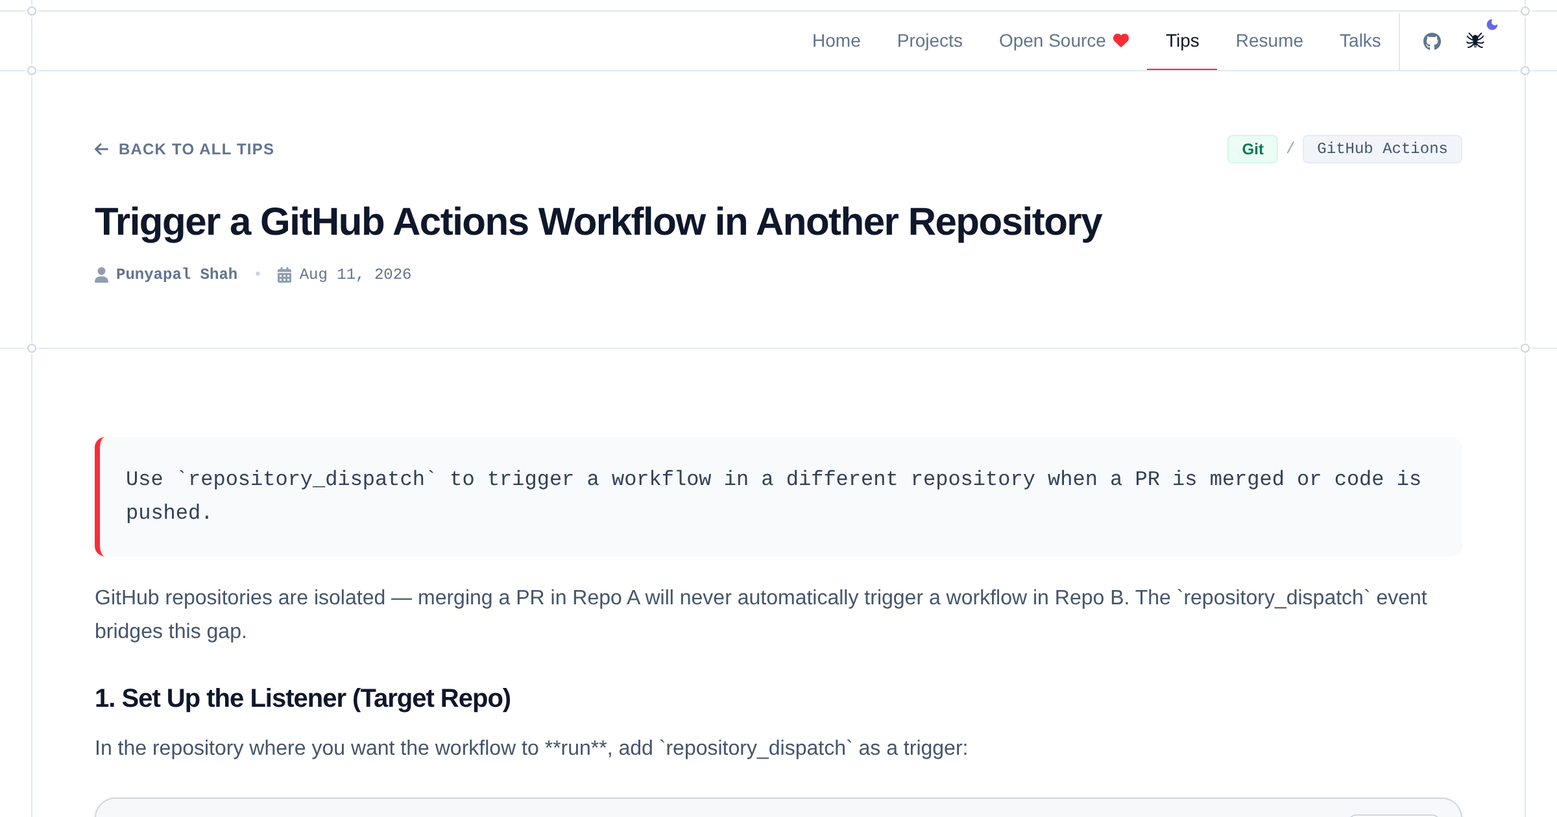
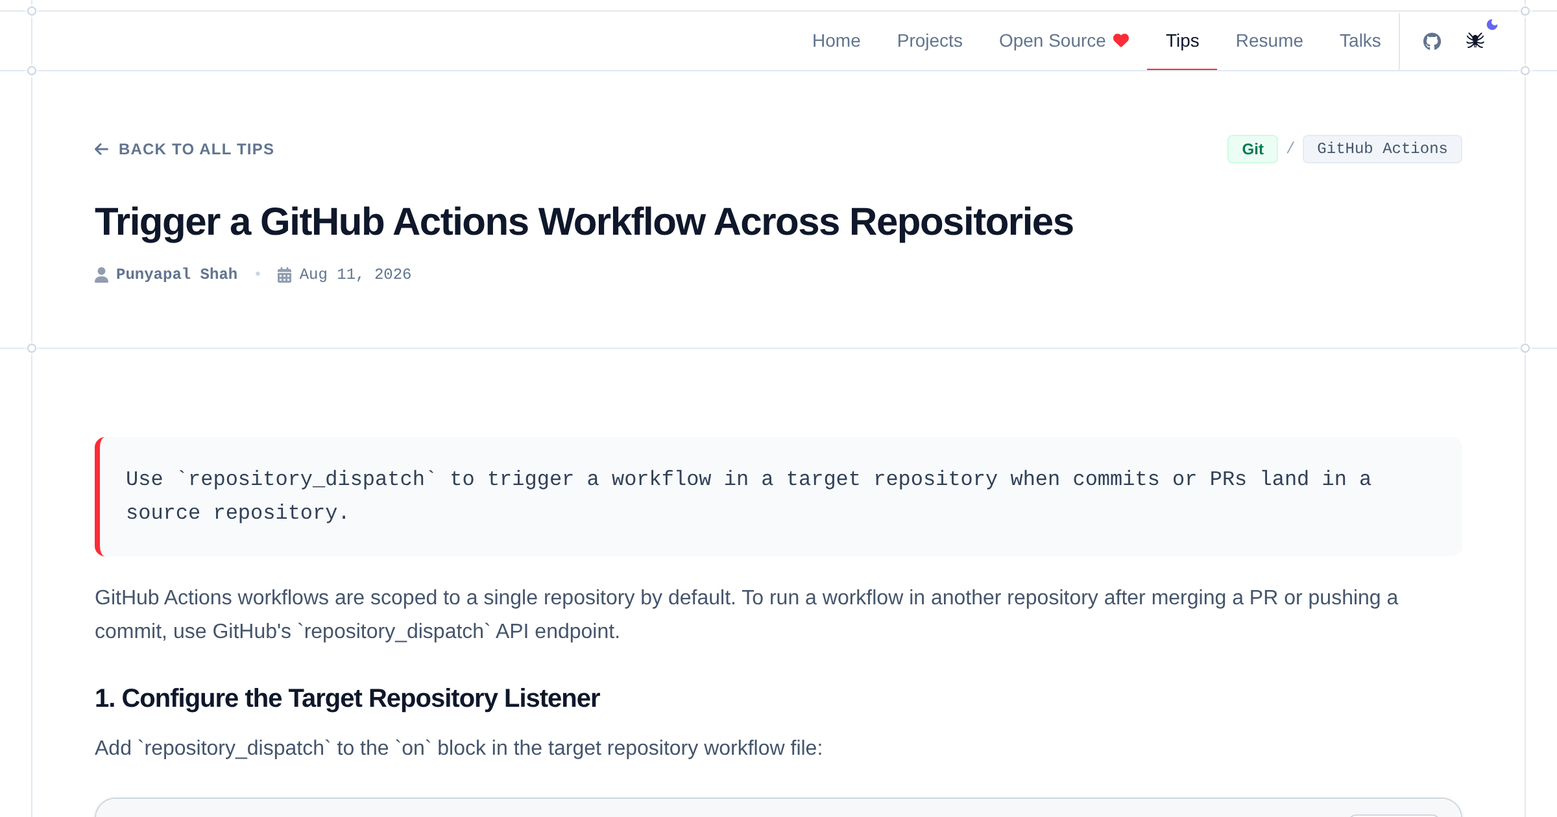
build: auto-generate site assets and update tips submodule

diff --git a/tips/github-actions-cross-repo-workflow-dispatch.html b/tips/github-actions-cross-repo-workflow-dispatch.html
@@ -4,7 +4,7 @@
 <head>
     <meta charset="UTF-8">
     <meta name="viewport" content="width=device-width, initial-scale=1.0">
-    <title>Trigger a GitHub Actions Workflow in Another Repository | Tips | Punyapal Shah</title>
+    <title>Trigger a GitHub Actions Workflow Across Repositories | Tips | Punyapal Shah</title>
 
     <!-- Browser and Performance -->
     <link rel="preconnect" href="https://fonts.googleapis.com">
@@ -16,7 +16,7 @@
     <meta http-equiv="Permissions-Policy" content="interest-cohort=()">
 
     <!-- Primary SEO Meta Tags -->
-    <meta name="description" content="Use repositorydispatch to trigger a workflow in a different repository when a PR is merged or code is pushed. GitHub repositories are isolated — merging a PR...">
+    <meta name="description" content="Use repositorydispatch to trigger a workflow in a target repository when commits or PRs land in a source repository. GitHub Actions workflows are scoped to a...">
     <meta name="author" content="Punyapal Shah">
     <link rel="canonical" href="https://mrpunyapal.dev/tips/github-actions-cross-repo-workflow-dispatch">
     <link rel="alternate" type="application/rss+xml" title="Punyapal Shah's Tips" href="https://mrpunyapal.dev/tips/feed.xml">
@@ -24,14 +24,14 @@
     <!-- Open Graph / Facebook -->
     <meta property="og:type" content="article">
     <meta property="og:url" content="https://mrpunyapal.dev/tips/github-actions-cross-repo-workflow-dispatch">
-    <meta property="og:title" content="Trigger a GitHub Actions Workflow in Another Repository | Punyapal Shah">
-    <meta property="og:description" content="Use repositorydispatch to trigger a workflow in a different repository when a PR is merged or code is pushed. GitHub repositories are isolated — merging a PR...">
+    <meta property="og:title" content="Trigger a GitHub Actions Workflow Across Repositories | Punyapal Shah">
+    <meta property="og:description" content="Use repositorydispatch to trigger a workflow in a target repository when commits or PRs land in a source repository. GitHub Actions workflows are scoped to a...">
     <meta property="og:image" content="https://mrpunyapal.dev/og/tips/github-actions-cross-repo-workflow-dispatch.png">
     <meta property="og:image:secure_url" content="https://mrpunyapal.dev/og/tips/github-actions-cross-repo-workflow-dispatch.png">
     <meta property="og:image:type" content="image/png">
     <meta property="og:image:width" content="1200">
     <meta property="og:image:height" content="630">
-    <meta property="og:image:alt" content="Trigger a GitHub Actions Workflow in Another Repository - Punyapal Shah">
+    <meta property="og:image:alt" content="Trigger a GitHub Actions Workflow Across Repositories - Punyapal Shah">
     <meta property="og:site_name" content="Punyapal Shah">
     <meta property="og:locale" content="en_US">
     <meta property="article:published_time" content="2026-08-11">
@@ -43,10 +43,10 @@
     <meta name="twitter:site" content="@MrPunyapal">
     <meta name="twitter:creator" content="@MrPunyapal">
     <meta name="twitter:url" content="https://mrpunyapal.dev/tips/github-actions-cross-repo-workflow-dispatch">
-    <meta name="twitter:title" content="Trigger a GitHub Actions Workflow in Another Repository | Punyapal Shah">
-    <meta name="twitter:description" content="Use repositorydispatch to trigger a workflow in a different repository when a PR is merged or code is pushed. GitHub repositories are isolated — merging a PR...">
+    <meta name="twitter:title" content="Trigger a GitHub Actions Workflow Across Repositories | Punyapal Shah">
+    <meta name="twitter:description" content="Use repositorydispatch to trigger a workflow in a target repository when commits or PRs land in a source repository. GitHub Actions workflows are scoped to a...">
     <meta name="twitter:image" content="https://mrpunyapal.dev/og/tips/github-actions-cross-repo-workflow-dispatch.png">
-    <meta name="twitter:image:alt" content="Trigger a GitHub Actions Workflow in Another Repository - Punyapal Shah">
+    <meta name="twitter:image:alt" content="Trigger a GitHub Actions Workflow Across Repositories - Punyapal Shah">
 
     <!-- Structured Data (JSON-LD TechArticle & Breadcrumbs) -->
     <script type="application/ld+json">
@@ -56,8 +56,8 @@
             {
                 "@type": "TechArticle",
                 "@id": "https://mrpunyapal.dev/tips/github-actions-cross-repo-workflow-dispatch#article",
-                "headline": "Trigger a GitHub Actions Workflow in Another Repository",
-                "description": "Use repositorydispatch to trigger a workflow in a different repository when a PR is merged or code is pushed. GitHub repositories are isolated — merging a PR...",
+                "headline": "Trigger a GitHub Actions Workflow Across Repositories",
+                "description": "Use repositorydispatch to trigger a workflow in a target repository when commits or PRs land in a source repository. GitHub Actions workflows are scoped to a...",
                 "datePublished": "2026-08-11",
                 "inLanguage": "en",
                 "mainEntityOfPage": "https://mrpunyapal.dev/tips/github-actions-cross-repo-workflow-dispatch",
@@ -89,7 +89,7 @@
                     {
                         "@type": "ListItem",
                         "position": 3,
-                        "name": "Trigger a GitHub Actions Workflow in Another Repository",
+                        "name": "Trigger a GitHub Actions Workflow Across Repositories",
                         "item": "https://mrpunyapal.dev/tips/github-actions-cross-repo-workflow-dispatch"
                     }
                 ]
@@ -617,7 +617,7 @@
                 <!-- Title & Meta -->
                 <div class="animate-fade-up">
                     <h1 class="text-xl sm:text-2xl md:text-3xl font-bold text-slate-900 dark:text-white tracking-tight leading-snug mb-3">
-                        Trigger a GitHub Actions Workflow in Another Repository
+                        Trigger a GitHub Actions Workflow Across Repositories
                     </h1>
 
                     <div class="flex flex-wrap items-center gap-2.5 sm:gap-3 text-xs font-mono text-slate-500 dark:text-slate-400">
@@ -642,7 +642,7 @@
 
                 <!-- Main Tip Content -->
                 <div class="tip-content max-w-none text-slate-800 dark:text-slate-200 text-sm sm:text-base">
-                    <blockquote class="p-4 sm:p-5 my-5 rounded-lg bg-slate-50 dark:bg-slate-900/60 border-l-4 border-red-500 text-slate-700 dark:text-slate-300 text-sm sm:text-base font-mono leading-relaxed">Use `repository_dispatch` to trigger a workflow in a different repository when a PR is merged or code is pushed.</blockquote><p class="text-sm sm:text-base text-slate-600 dark:text-slate-300 leading-relaxed my-3">GitHub repositories are isolated — merging a PR in Repo A will never automatically trigger a workflow in Repo B. The `repository_dispatch` event bridges this gap.</p><h3 class="text-lg sm:text-xl font-bold text-slate-900 dark:text-white mt-6 mb-3 tracking-tight">1. Set Up the Listener (Target Repo)</h3><p class="text-sm sm:text-base text-slate-600 dark:text-slate-300 leading-relaxed my-3">In the repository where you want the workflow to **run**, add `repository_dispatch` as a trigger:</p>
+                    <blockquote class="p-4 sm:p-5 my-5 rounded-lg bg-slate-50 dark:bg-slate-900/60 border-l-4 border-red-500 text-slate-700 dark:text-slate-300 text-sm sm:text-base font-mono leading-relaxed">Use `repository_dispatch` to trigger a workflow in a target repository when commits or PRs land in a source repository.</blockquote><p class="text-sm sm:text-base text-slate-600 dark:text-slate-300 leading-relaxed my-3">GitHub Actions workflows are scoped to a single repository by default. To run a workflow in another repository after merging a PR or pushing a commit, use GitHub's `repository_dispatch` API endpoint.</p><h3 class="text-lg sm:text-xl font-bold text-slate-900 dark:text-white mt-6 mb-3 tracking-tight">1. Configure the Target Repository Listener</h3><p class="text-sm sm:text-base text-slate-600 dark:text-slate-300 leading-relaxed my-3">Add `repository_dispatch` to the `on` block in the target repository workflow file:</p>
 <div class="code-block-wrapper my-6 rounded-2xl border border-[#d0d7de] dark:border-[#30363d] bg-white dark:bg-[#0d1117] text-[#24292e] dark:text-[#c9d1d9] overflow-hidden text-xs sm:text-sm font-mono shadow-sm relative group">
     <div class="flex items-center justify-between px-4 py-3 bg-[#f6f8fa] dark:bg-[#161b22] border-b border-[#d0d7de] dark:border-[#30363d] select-none">
         <div class="flex items-center gap-2">
@@ -666,7 +666,7 @@ jobs:
     runs-on: ubuntu-latest
     steps:
       - uses: actions/checkout@v4
-      - run: echo &quot;Build triggered!&quot;" aria-label="Copy code to clipboard">
+      - run: echo &quot;Build triggered&quot;" aria-label="Copy code to clipboard">
             <svg class="w-3.5 h-3.5 opacity-70" fill="none" stroke="currentColor" viewBox="0 0 24 24" aria-hidden="true">
                 <path stroke-linecap="round" stroke-linejoin="round" stroke-width="2" d="M8 16H6a2 2 0 01-2-2V6a2 2 0 012-2h8a2 2 0 012 2v2m-6 12h8a2 2 0 002-2v-8a2 2 0 00-2-2h-8a2 2 0 00-2 2v8a2 2 0 002 2z"></path>
             </svg>
@@ -689,8 +689,8 @@ jobs:
     <span class="hljs-attr">runs-on:</span> <span class="hljs-string">ubuntu-latest</span>
     <span class="hljs-attr">steps:</span>
       <span class="hljs-bullet">-</span> <span class="hljs-attr">uses:</span> <span class="hljs-string">actions/checkout@v4</span>
-      <span class="hljs-bullet">-</span> <span class="hljs-attr">run:</span> <span class="hljs-string">echo</span> <span class="hljs-string">&quot;Build triggered!&quot;</span></code></pre>
-</div><h3 class="text-lg sm:text-xl font-bold text-slate-900 dark:text-white mt-6 mb-3 tracking-tight">2. Set Up the Notifier (Source Repo)</h3><p class="text-sm sm:text-base text-slate-600 dark:text-slate-300 leading-relaxed my-3">In the repository that should **send** the signal, add a workflow that fires a `curl` request:</p>
+      <span class="hljs-bullet">-</span> <span class="hljs-attr">run:</span> <span class="hljs-string">echo</span> <span class="hljs-string">&quot;Build triggered&quot;</span></code></pre>
+</div><h3 class="text-lg sm:text-xl font-bold text-slate-900 dark:text-white mt-6 mb-3 tracking-tight">2. Configure the Source Repository Dispatcher</h3><p class="text-sm sm:text-base text-slate-600 dark:text-slate-300 leading-relaxed my-3">In the source repository, add a workflow step that sends a POST request to GitHub's dispatches endpoint:</p>
 <div class="code-block-wrapper my-6 rounded-2xl border border-[#d0d7de] dark:border-[#30363d] bg-white dark:bg-[#0d1117] text-[#24292e] dark:text-[#c9d1d9] overflow-hidden text-xs sm:text-sm font-mono shadow-sm relative group">
     <div class="flex items-center justify-between px-4 py-3 bg-[#f6f8fa] dark:bg-[#161b22] border-b border-[#d0d7de] dark:border-[#30363d] select-none">
         <div class="flex items-center gap-2">
@@ -710,10 +710,16 @@ jobs:
   notify:
     runs-on: ubuntu-latest
     steps:
-      - name: Trigger target repo build
+      - name: Trigger target build
+        env:
+          TOKEN: ${{ secrets.WEBSITE_DISPATCH_TOKEN }}
         run: |
-          curl -X POST \
-            -H &quot;Authorization: Bearer ${{ secrets.DISPATCH_TOKEN }}&quot; \
+          if [ -z &quot;$TOKEN&quot; ]; then
+            echo &quot;WEBSITE_DISPATCH_TOKEN is not set&quot;
+            exit 1
+          fi
+          curl --fail --show-error -X POST \
+            -H &quot;Authorization: Bearer $TOKEN&quot; \
             -H &quot;Accept: application/vnd.github.v3+json&quot; \
             https://api.github.com/repos/OWNER/TARGET-REPO/dispatches \
             -d &#039;{&quot;event_type&quot;: &quot;content-updated&quot;}&#039;" aria-label="Copy code to clipboard">
@@ -735,15 +741,20 @@ jobs:
   <span class="hljs-attr">notify:</span>
     <span class="hljs-attr">runs-on:</span> <span class="hljs-string">ubuntu-latest</span>
     <span class="hljs-attr">steps:</span>
-      <span class="hljs-bullet">-</span> <span class="hljs-attr">name:</span> <span class="hljs-string">Trigger</span> <span class="hljs-string">target</span> <span class="hljs-string">repo</span> <span class="hljs-string">build</span>
+      <span class="hljs-bullet">-</span> <span class="hljs-attr">name:</span> <span class="hljs-string">Trigger</span> <span class="hljs-string">target</span> <span class="hljs-string">build</span>
+        <span class="hljs-attr">env:</span>
+          <span class="hljs-attr">TOKEN:</span> <span class="hljs-string">${{</span> <span class="hljs-string">secrets.WEBSITE_DISPATCH_TOKEN</span> <span class="hljs-string">}}</span>
         <span class="hljs-attr">run:</span> <span class="hljs-string">|
-          curl -X POST \
-            -H &quot;Authorization: Bearer ${{ secrets.DISPATCH_TOKEN }}&quot; \
+          if [ -z &quot;$TOKEN&quot; ]; then
+            echo &quot;WEBSITE_DISPATCH_TOKEN is not set&quot;
+            exit 1
+          fi
+          curl --fail --show-error -X POST \
+            -H &quot;Authorization: Bearer $TOKEN&quot; \
             -H &quot;Accept: application/vnd.github.v3+json&quot; \
             https://api.github.com/repos/OWNER/TARGET-REPO/dispatches \
             -d &#x27;{&quot;event_type&quot;: &quot;content-updated&quot;}&#x27;</span></code></pre>
-</div><h3 class="text-lg sm:text-xl font-bold text-slate-900 dark:text-white mt-6 mb-3 tracking-tight">3. Create the Token</h3><ul class="list-disc list-inside my-4 space-y-2 text-sm sm:text-base text-slate-600 dark:text-slate-300 pl-2"><li class="leading-relaxed"><span class="align-middle">Go to GitHub <strong>Settings</strong> → <strong>Developer Settings</strong> → <strong>Fine-Grained Personal Access Tokens</strong></span></li><li class="leading-relaxed"><span class="align-middle">Scope it to the <strong>target repository</strong> only</span></li><li class="leading-relaxed"><span class="align-middle">Grant <strong>Contents: Read and write</strong> permission</span></li><li class="leading-relaxed"><span class="align-middle">Save the token as <code>DISPATCH_TOKEN</code> in the <strong>source repository&#39;s</strong> Actions secrets
-</span></li><li class="leading-relaxed"><span class="align-middle">The <code>event_type</code> string must match exactly between the sender and the listener</span></li><li class="leading-relaxed"><span class="align-middle">The token needs write access to the <strong>target</strong> repo, stored as a secret in the <strong>source</strong> repo</span></li><li class="leading-relaxed"><span class="align-middle">Works for any cross-repo automation: monorepo builds, submodule syncs, deploy triggers</span></li></ul>
+</div><h3 class="text-lg sm:text-xl font-bold text-slate-900 dark:text-white mt-6 mb-3 tracking-tight">3. Create and Assign the Access Token</h3><ol class="list-decimal list-inside my-4 space-y-2 text-sm sm:text-base text-slate-600 dark:text-slate-300 pl-2"><li class="leading-relaxed"><span class="align-middle">Create a Fine-Grained Personal Access Token under GitHub Developer Settings.</span></li><li class="leading-relaxed"><span class="align-middle">Select the target repository under <strong>Repository Access</strong>.</span></li><li class="leading-relaxed"><span class="align-middle">Set <strong>Contents</strong> permission to <strong>Read and write</strong>.</span></li><li class="leading-relaxed"><span class="align-middle">Save the token as <code>WEBSITE_DISPATCH_TOKEN</code> in the source repository&#39;s Actions Secrets.</span></li></ol><h3 class="text-lg sm:text-xl font-bold text-slate-900 dark:text-white mt-6 mb-3 tracking-tight">Key Considerations</h3><ul class="list-disc list-inside my-4 space-y-2 text-sm sm:text-base text-slate-600 dark:text-slate-300 pl-2"><li class="leading-relaxed"><span class="align-middle">The <code>event_type</code> string in the payload must match the array value under <code>types: [...]</code>.</span></li><li class="leading-relaxed"><span class="align-middle">Always pass <code>--fail --show-error</code> to <code>curl</code> so HTTP errors exit with code 1 instead of failing silently.</span></li><li class="leading-relaxed"><span class="align-middle">Fine-grained tokens limit dispatch access strictly to the targeted repository.</span></li></ul>
                 </div>
 
                 <!-- Tag Cloud & Inline Share Actions -->
@@ -757,7 +768,7 @@ jobs:
                     </div>
 
                     <div class="flex items-center gap-2">
-                        <a href="https://twitter.com/intent/tweet?text=Trigger%20a%20GitHub%20Actions%20Workflow%20in%20Another%20Repository%20by%20%40MrPunyapal&url=https%3A%2F%2Fmrpunyapal.dev%2Ftips%2Fgithub-actions-cross-repo-workflow-dispatch" target="_blank" rel="noopener noreferrer" class="inline-flex items-center gap-1.5 px-3 py-1.5 rounded bg-slate-900 text-white dark:bg-white dark:text-slate-900 hover:bg-slate-800 dark:hover:bg-slate-100 transition-colors text-[11px] font-bold uppercase tracking-wider" aria-label="Share this tip on X">
+                        <a href="https://twitter.com/intent/tweet?text=Trigger%20a%20GitHub%20Actions%20Workflow%20Across%20Repositories%20by%20%40MrPunyapal&url=https%3A%2F%2Fmrpunyapal.dev%2Ftips%2Fgithub-actions-cross-repo-workflow-dispatch" target="_blank" rel="noopener noreferrer" class="inline-flex items-center gap-1.5 px-3 py-1.5 rounded bg-slate-900 text-white dark:bg-white dark:text-slate-900 hover:bg-slate-800 dark:hover:bg-slate-100 transition-colors text-[11px] font-bold uppercase tracking-wider" aria-label="Share this tip on X">
                             <svg class="icon text-[11px]" viewBox="0 0 512 512" aria-hidden="true"><use href="#i-x-twitter"/></svg>
                             <span>Share on X</span>
                         </a>

diff --git a/tips.html b/tips.html
@@ -80,7 +80,7 @@
                         "@type": "ListItem",
                         "position": 1,
                         "url": "https://mrpunyapal.dev/tips/github-actions-cross-repo-workflow-dispatch",
-                        "name": "Trigger a GitHub Actions Workflow in Another Repository"
+                        "name": "Trigger a GitHub Actions Workflow Across Repositories"
                     },
                     {
                         "@type": "ListItem",
@@ -1419,8 +1419,8 @@
                 data-category="Git"
                 data-subcategory="github actions"
                 data-tags="git github actions ci/cd devops"
-                data-title="trigger a github actions workflow in another repository"
-                data-summary="use repositorydispatch to trigger a workflow in a different repository when a pr is merged or code is pushed. github repositories are isolated — merging a pr...">
+                data-title="trigger a github actions workflow across repositories"
+                data-summary="use repositorydispatch to trigger a workflow in a target repository when commits or prs land in a source repository. github actions workflows are scoped to a...">
                 
                 <!-- 4-Corner Crosshair SVG Markers -->
                 <div class="absolute top-0 left-0 -translate-x-1/2 -translate-y-1/2 w-4 h-4 text-slate-200 dark:text-slate-800 bg-white dark:bg-slate-900 z-10">
@@ -1449,11 +1449,11 @@
                     </div>
                     <h3 class="text-sm sm:text-base font-bold text-slate-900 dark:text-white group-hover:text-red-600 dark:group-hover:text-red-400 transition-colors leading-snug mb-2 tracking-tight">
                         <a href="/tips/github-actions-cross-repo-workflow-dispatch">
-                            Trigger a GitHub Actions Workflow in Another Repository
+                            Trigger a GitHub Actions Workflow Across Repositories
                         </a>
                     </h3>
                     <p class="text-xs text-slate-600 dark:text-slate-300 leading-relaxed line-clamp-2">
-                        Use repositorydispatch to trigger a workflow in a different repository when a PR is merged or code is pushed. GitHub repositories are isolated — merging a PR...
+                        Use repositorydispatch to trigger a workflow in a target repository when commits or PRs land in a source repository. GitHub Actions workflows are scoped to a...
                     </p>
                 </div>
 
@@ -1461,7 +1461,7 @@
                     <time datetime="2026-08-11" class="text-xs font-mono text-slate-500 dark:text-slate-400 inline-flex items-center gap-1">
                         Aug 11, 2026
                     </time>
-                    <a href="/tips/github-actions-cross-repo-workflow-dispatch" class="text-xs font-bold uppercase tracking-wider text-red-600 dark:text-red-400 hover:text-red-700 transition-colors inline-flex items-center gap-1" aria-label="Read tip: Trigger a GitHub Actions Workflow in Another Repository">
+                    <a href="/tips/github-actions-cross-repo-workflow-dispatch" class="text-xs font-bold uppercase tracking-wider text-red-600 dark:text-red-400 hover:text-red-700 transition-colors inline-flex items-center gap-1" aria-label="Read tip: Trigger a GitHub Actions Workflow Across Repositories">
                         <span>READ</span>
                         <svg class="w-3 h-3" fill="none" stroke="currentColor" viewBox="0 0 24 24" aria-hidden="true"><path stroke-linecap="round" stroke-linejoin="round" stroke-width="2" d="M9 5l7 7-7 7"/></svg>
                     </a>

diff --git a/tips/laravel-queue-worker-polling-optimization.html b/tips/laravel-queue-worker-polling-optimization.html
@@ -707,7 +707,7 @@ php artisan queue:work --<span class="hljs-built_in">sleep</span>=3 --tries=3 --
                     </div>
 
                     <h3 class="text-sm font-bold text-slate-900 dark:text-white group-hover:text-red-600 dark:group-hover:text-red-400 transition-colors leading-snug tracking-tight">
-                        Trigger a GitHub Actions Workflow in Another Repository
+                        Trigger a GitHub Actions Workflow Across Repositories
                     </h3>
                     <span class="text-slate-400 group-hover:text-red-600 dark:group-hover:text-red-400 transition-colors shrink-0">
                         <svg class="w-4 h-4" fill="none" stroke="currentColor" viewBox="0 0 24 24"><path stroke-linecap="round" stroke-linejoin="round" stroke-width="2" d="M9 5l7 7-7 7"/></svg>

diff --git a/tips/laravel-queue-worker-stop-when-empty-for.html b/tips/laravel-queue-worker-stop-when-empty-for.html
@@ -713,7 +713,7 @@ php artisan queue:work --stop-when-empty-for=60</code></pre>
                     </div>
 
                     <h3 class="text-sm font-bold text-slate-900 dark:text-white group-hover:text-red-600 dark:group-hover:text-red-400 transition-colors leading-snug tracking-tight">
-                        Trigger a GitHub Actions Workflow in Another Repository
+                        Trigger a GitHub Actions Workflow Across Repositories
                     </h3>
                     <span class="text-slate-400 group-hover:text-red-600 dark:group-hover:text-red-400 transition-colors shrink-0">
                         <svg class="w-4 h-4" fill="none" stroke="currentColor" viewBox="0 0 24 24"><path stroke-linecap="round" stroke-linejoin="round" stroke-width="2" d="M9 5l7 7-7 7"/></svg>

diff --git a/tips/laravel-agent-detector-pao.html b/tips/laravel-agent-detector-pao.html
@@ -713,7 +713,7 @@ if (AgentDetector::detect()-&gt;isAgent) {
                     </div>
 
                     <h3 class="text-sm font-bold text-slate-900 dark:text-white group-hover:text-red-600 dark:group-hover:text-red-400 transition-colors leading-snug tracking-tight">
-                        Trigger a GitHub Actions Workflow in Another Repository
+                        Trigger a GitHub Actions Workflow Across Repositories
                     </h3>
                     <span class="text-slate-400 group-hover:text-red-600 dark:group-hover:text-red-400 transition-colors shrink-0">
                         <svg class="w-4 h-4" fill="none" stroke="currentColor" viewBox="0 0 24 24"><path stroke-linecap="round" stroke-linejoin="round" stroke-width="2" d="M9 5l7 7-7 7"/></svg>

diff --git a/tips/laravel-production-deployment-commands.html b/tips/laravel-production-deployment-commands.html
@@ -715,7 +715,7 @@ php artisan queue:restart</code></pre>
                     </div>
 
                     <h3 class="text-sm font-bold text-slate-900 dark:text-white group-hover:text-red-600 dark:group-hover:text-red-400 transition-colors leading-snug tracking-tight">
-                        Trigger a GitHub Actions Workflow in Another Repository
+                        Trigger a GitHub Actions Workflow Across Repositories
                     </h3>
                     <span class="text-slate-400 group-hover:text-red-600 dark:group-hover:text-red-400 transition-colors shrink-0">
                         <svg class="w-4 h-4" fill="none" stroke="currentColor" viewBox="0 0 24 24"><path stroke-linecap="round" stroke-linejoin="round" stroke-width="2" d="M9 5l7 7-7 7"/></svg>

diff --git a/tips/laravel-squash-migrations-workflow.html b/tips/laravel-squash-migrations-workflow.html
@@ -711,7 +711,7 @@ php artisan schema:dump --prune
                     </div>
 
                     <h3 class="text-sm font-bold text-slate-900 dark:text-white group-hover:text-red-600 dark:group-hover:text-red-400 transition-colors leading-snug tracking-tight">
-                        Trigger a GitHub Actions Workflow in Another Repository
+                        Trigger a GitHub Actions Workflow Across Repositories
                     </h3>
                     <span class="text-slate-400 group-hover:text-red-600 dark:group-hover:text-red-400 transition-colors shrink-0">
                         <svg class="w-4 h-4" fill="none" stroke="currentColor" viewBox="0 0 24 24"><path stroke-linecap="round" stroke-linejoin="round" stroke-width="2" d="M9 5l7 7-7 7"/></svg>
